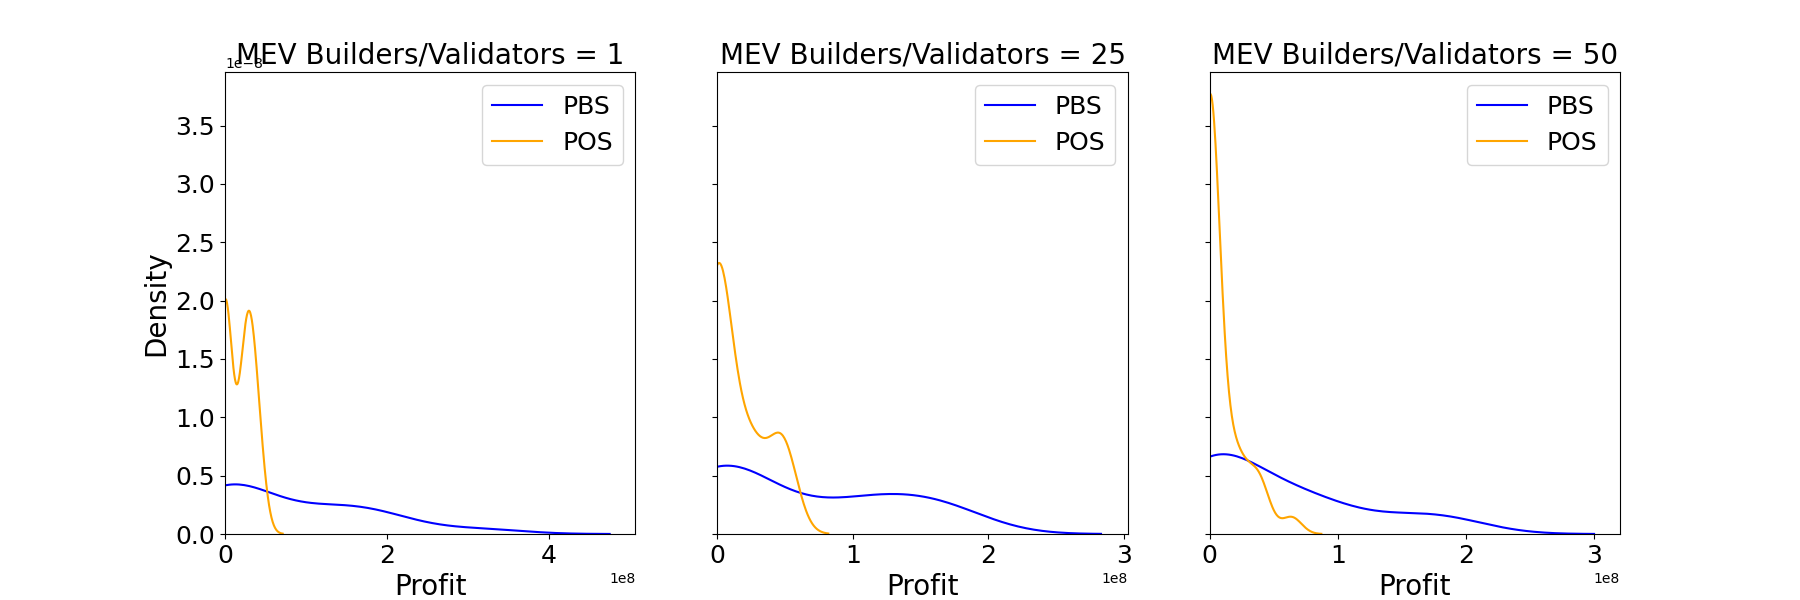
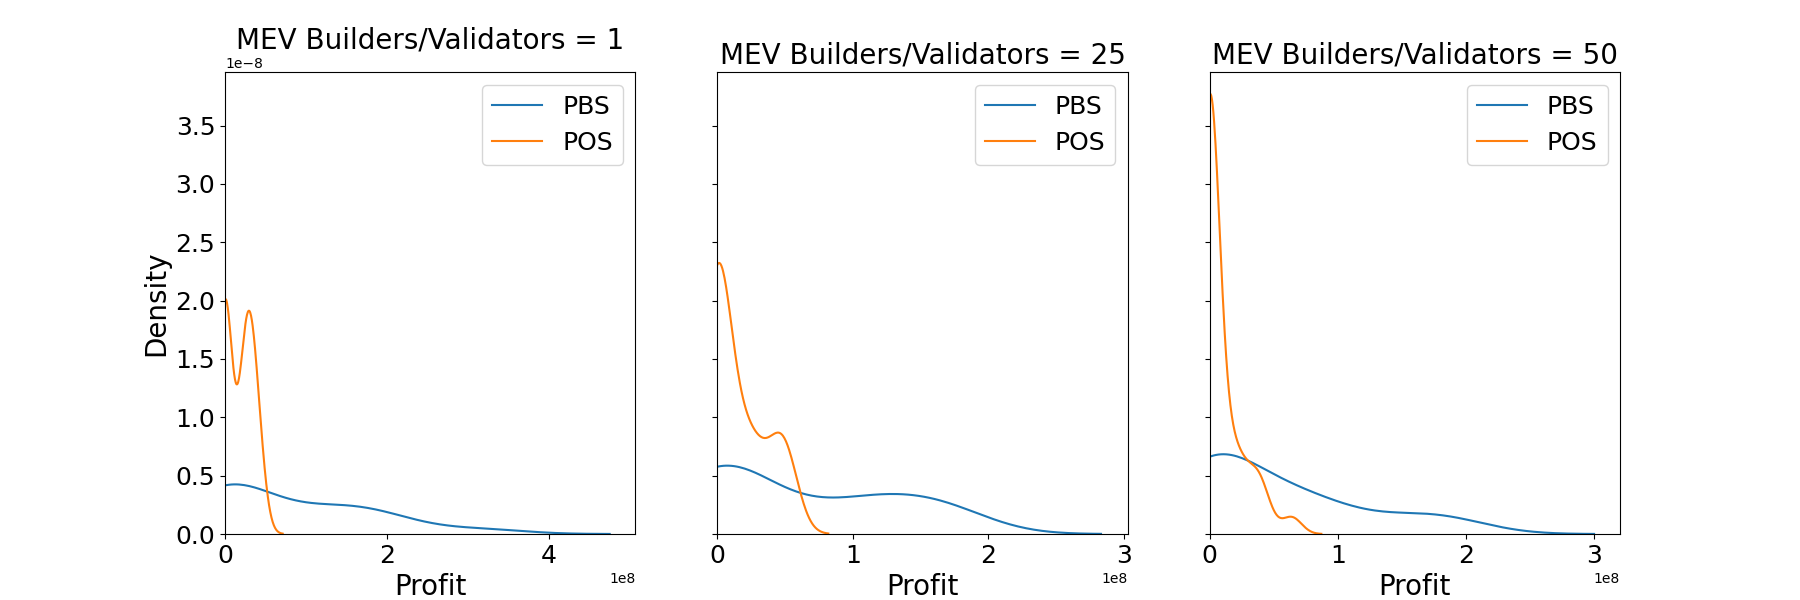
colour

diff --git a/plots/new/block_builder_type_plot.py b/plots/new/block_builder_type_plot.py
@@ -4,18 +4,18 @@ import matplotlib.pyplot as plt
 import seaborn as sns
 import os
 
-def compute_gini(array):
-    """Compute the Gini coefficient of a numpy array."""
-    if array.size == 0:
-        return np.nan
-    array = array.flatten().astype(float)  # Ensure the array is float
-    if np.amin(array) < 0:
-        array -= np.amin(array)
-    array += 0.0000001  # Prevent division by zero
-    array = np.sort(array)
-    index = np.arange(1, array.shape[0] + 1)
-    n = array.shape[0]
-    return ((np.sum((2 * index - n - 1) * array)) / (n * np.sum(array)))
+def inspect_columns(data_dir, mev_counts):
+    for mev_count in mev_counts:
+        pbs_dir = os.path.join(data_dir, f'pbs/mev{mev_count}/transaction_data_pbs.csv')
+        pos_dir = os.path.join(data_dir, f'pos/mev{mev_count}/transaction_data_pos.csv')
+
+        if os.path.exists(pbs_dir):
+            pbs_df = pd.read_csv(pbs_dir)
+            print(f"MEV Count {mev_count} PBS Columns: {pbs_df.columns.tolist()}")
+
+        if os.path.exists(pos_dir):
+            pos_df = pd.read_csv(pos_dir)
+            print(f"MEV Count {mev_count} POS Columns: {pos_df.columns.tolist()}")
 
 def load_data(data_dir, mev_counts):
     data = {'pbs': {}, 'pos': {}}
@@ -28,7 +28,7 @@ def load_data(data_dir, mev_counts):
             pos_df = pd.read_csv(pos_dir)
 
             if 'builder_type' not in pbs_df.columns or 'builder_type' not in pos_df.columns:
-                print(f"builder_type column not found in MEV count {mev_count} files. Skipping...")
+                print(f"builder_type column not found in MEV count {mev_count} files. Available PBS columns: {pbs_df.columns.tolist()}, POS columns: {pos_df.columns.tolist()}. Skipping...")
                 continue
 
             pbs_builders = pbs_df['builder_type'].value_counts()
@@ -41,74 +41,34 @@ def load_data(data_dir, mev_counts):
 
     return data
 
-def plot_gini_coefficient_mev_non_mev(data_dir, mev_counts):
-    data = load_data(data_dir, mev_counts)
+def plot_bar_chart_for_mev(data_dir, mev_counts_to_plot):
+    data = load_data(data_dir, mev_counts_to_plot)
 
-    gini_coefficients = {'pbs_mev': [], 'pbs_non_mev': [], 'pos_mev': [], 'pos_non_mev': []}
-    for system in ['pbs', 'pos']:
-        for mev_count in mev_counts:
-            if mev_count in data[system]:
-                builder_blocks = data[system][mev_count]
-                mev_blocks = builder_blocks.get('mev', 0)
-                non_mev_blocks = builder_blocks.sum() - mev_blocks
+    for mev_count in mev_counts_to_plot:
+        if mev_count in data['pbs'] and mev_count in data['pos']:
+            pbs_builders = data['pbs'][mev_count]
+            pos_builders = data['pos'][mev_count]
 
-                print(f"{system.upper()} MEV Count {mev_count} - MEV Blocks: {mev_blocks}, Non-MEV Blocks: {non_mev_blocks}")
+            combined_data = pd.DataFrame({
+                'type': ['PBS'] * len(pbs_builders) + ['POS'] * len(pos_builders),
+                'Participant Type': list(pbs_builders.index) + list(pos_builders.index),
+                'Number of Blocks Built': list(pbs_builders.values) + list(pos_builders.values)
+            })
 
-                if system == 'pbs':
-                    gini_coefficients['pbs_mev'].append(compute_gini(np.array([mev_blocks])))
-                    gini_coefficients['pbs_non_mev'].append(compute_gini(np.array([non_mev_blocks])))
-                else:
-                    gini_coefficients['pos_mev'].append(compute_gini(np.array([mev_blocks])))
-                    gini_coefficients['pos_non_mev'].append(compute_gini(np.array([non_mev_blocks])))
+            plt.figure(figsize=(12, 6))
+            sns.barplot(x='Participant Type', y='Number of Blocks Built', hue='type', data=combined_data)
+            plt.title(f'Number of Blocks Built for MEV Count = {mev_count}', fontsize=20)
+            plt.xlabel('Participant Type', fontsize=18)
+            plt.ylabel('Number of Blocks Built', fontsize=18)
+            plt.legend(title='Type', fontsize=16)
+            plt.tick_params(axis='both', which='major', labelsize=14)
+            plt.grid(True, axis='y')
 
-    fig, ax = plt.subplots(figsize=(12, 6))
-    ax.plot(mev_counts, gini_coefficients['pbs_mev'], marker='o', label='PBS MEV', color='blue')
-    ax.plot(mev_counts, gini_coefficients['pbs_non_mev'], marker='o', label='PBS Non-MEV', color='cyan')
-    ax.plot(mev_counts, gini_coefficients['pos_mev'], marker='o', label='POS MEV', color='orange')
-    ax.plot(mev_counts, gini_coefficients['pos_non_mev'], marker='o', label='POS Non-MEV', color='yellow')
-
-    ax.set_title('Gini Coefficient of Block Creation Likelihood', fontsize=20)
-    ax.set_xlabel('Number of MEV Builders/Validators', fontsize=18)
-    ax.set_ylabel('Gini Coefficient', fontsize=18)
-    ax.legend(fontsize=16)
-    ax.tick_params(axis='both', which='major', labelsize=14)
-    ax.grid(True)
-
-    plt.savefig('figures/new/gini_coefficient_mev_non_mev.png')
-    plt.close()
-
-def plot_percentage_blocks_by_mev(data_dir, mev_counts):
-    data = load_data(data_dir, mev_counts)
-
-    percentages = {'pbs': [], 'pos': []}
-    for system in ['pbs', 'pos']:
-        for mev_count in mev_counts:
-            if mev_count in data[system]:
-                builder_blocks = data[system][mev_count]
-                total_blocks = builder_blocks.sum()
-                if total_blocks == 0:
-                    percentages[system].append(0)
-                else:
-                    mev_blocks = builder_blocks.get('mev', 0)
-                    percentages[system].append((mev_blocks / total_blocks) * 100)
-                print(f"{system.upper()} MEV Count {mev_count} - Total Blocks: {total_blocks}, MEV Blocks: {mev_blocks}")
-
-    fig, ax = plt.subplots(figsize=(12, 6))
-    ax.plot(mev_counts, percentages['pbs'], marker='o', label='PBS', color='blue')
-    ax.plot(mev_counts, percentages['pos'], marker='o', label='POS', color='orange')
-
-    ax.set_title('Percentage of Blocks Built by MEV Builders/Validators', fontsize=20)
-    ax.set_xlabel('Number of MEV Builders/Validators', fontsize=18)
-    ax.set_ylabel('Percentage of Blocks Built (%)', fontsize=18)
-    ax.legend(fontsize=16)
-    ax.tick_params(axis='both', which='major', labelsize=14)
-    ax.grid(True)
-
-    plt.savefig('figures/new/percentage_blocks_by_mev.png')
-    plt.close()
+            plt.savefig(f'figures/new/bar_chart_mev_{mev_count}.png')
+            plt.close()
 
 if __name__ == "__main__":
     data_dir = 'data/vary_mev'
-    mev_counts = [1, 5, 10, 15, 20, 25, 30, 35, 40, 45, 50]
-    plot_gini_coefficient_mev_non_mev(data_dir, mev_counts)
-    plot_percentage_blocks_by_mev(data_dir, mev_counts)
+    mev_counts_to_plot = [1, 25, 50]
+    inspect_columns(data_dir, mev_counts_to_plot)
+    plot_bar_chart_for_mev(data_dir, mev_counts_to_plot)

diff --git a/plots/new/vary_mev_plots.py b/plots/new/vary_mev_plots.py
@@ -8,13 +8,13 @@ import os
 
 def compute_gini(array):
     """Compute the Gini coefficient of a numpy array."""
-    array = array.flatten() 
+    array = array.flatten()
     if np.amin(array) < 0:
-        array -= np.amin(array)  
-    array += 0.0000001 
-    array = np.sort(array) 
-    index = np.arange(1, array.shape[0] + 1) 
-    n = array.shape[0] 
+        array -= np.amin(array)
+    array += 0.0000001
+    array = np.sort(array)
+    index = np.arange(1, array.shape[0] + 1)
+    n = array.shape[0]
     return ((np.sum((2 * index - n - 1) * array)) / (n * np.sum(array)))
 
 def load_profits(data_dir, mev_counts):
@@ -60,8 +60,8 @@ def plot_gini_coefficient(data_dir, mev_counts):
     gini_pbs = [gini_coefficients['pbs'].get(mc, np.nan) for mc in mev_counts]
     gini_pos = [gini_coefficients['pos'].get(mc, np.nan) for mc in mev_counts]
 
-    window_length = 5 
-    polyorder = 2  
+    window_length = 5
+    polyorder = 2
 
     smooth_gini_pbs = savgol_filter(gini_pbs, window_length, polyorder)
     smooth_gini_pos = savgol_filter(gini_pos, window_length, polyorder)
@@ -70,8 +70,8 @@ def plot_gini_coefficient(data_dir, mev_counts):
     x_pos_new, y_pos_new = interpolate_and_add_noise(mev_counts, smooth_gini_pos, num_points=49)
 
     fig, ax = plt.subplots(figsize=(10, 6))
-    sns.lineplot(x=x_pbs_new, y=y_pbs_new, marker='o', label='PBS', ax=ax, color='blue')
-    sns.lineplot(x=x_pos_new, y=y_pos_new, marker='o', label='POS', ax=ax, color='orange')
+    sns.lineplot(x=x_pbs_new, y=y_pbs_new, marker='o', label='PBS', ax=ax)
+    sns.lineplot(x=x_pos_new, y=y_pos_new, marker='o', label='POS', ax=ax)
 
     ax.set_xlabel('Number of MEV Builders/Validators', fontsize=20)
     ax.set_ylabel('Gini Coefficient', fontsize=20)
@@ -80,7 +80,7 @@ def plot_gini_coefficient(data_dir, mev_counts):
     ax.grid(True)
     ax.xaxis.grid(True)
     ax.yaxis.grid(True)
-    ax.xaxis.grid(False) 
+    ax.xaxis.grid(False)
     ax.yaxis.grid(True, which='both', linestyle='--', linewidth=0.7)
 
     plt.savefig('figures/new/smooth_gini_coefficient.png')
@@ -90,18 +90,17 @@ def plot_profit_distribution(data_dir, mev_counts_to_plot):
     profits = load_profits(data_dir, mev_counts_to_plot)
 
     fig, axes = plt.subplots(1, 3, figsize=(18, 6), sharey=True)
-    colors = ['blue', 'orange']
     systems = ['pbs', 'pos']
 
     for i, mev_count in enumerate(mev_counts_to_plot):
-        for system, color in zip(systems, colors):
+        for system in systems:
             if mev_count in profits[system]:
                 valid_profits = profits[system][mev_count][profits[system][mev_count] >= 0]
                 valid_profits = valid_profits[valid_profits >= 0]  # Ensure no negative values
                 print(f"{system.upper()} MEV {mev_count} valid profits: {valid_profits}")  # Debug print
                 if len(valid_profits) > 0:
-                    sns.kdeplot(valid_profits, ax=axes[i], label=system.upper(), color=color)
-        
+                    sns.kdeplot(valid_profits, ax=axes[i], label=system.upper())
+
         axes[i].set_title(f'MEV Builders/Validators = {mev_count}', fontsize=20)
         axes[i].set_xlabel('Profit', fontsize=20)
         axes[i].tick_params(axis='both', which='major', labelsize=18)
@@ -116,6 +115,6 @@ if __name__ == "__main__":
     data_dir = 'data/vary_mev'
     mev_counts = [1, 5, 10, 15, 20, 25, 30, 35, 40, 45, 50]
     plot_gini_coefficient(data_dir, mev_counts)
-    
+
     mev_counts_to_plot = [1, 25, 50]
     plot_profit_distribution(data_dir, mev_counts_to_plot)
